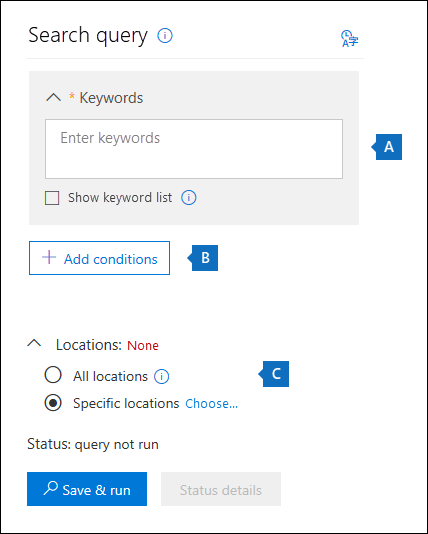
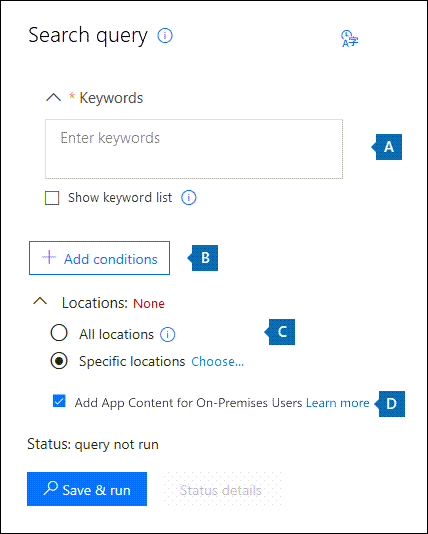
commit translated contents

diff --git a/microsoft-365/compliance/keyword-queries-and-search-conditions.md b/microsoft-365/compliance/keyword-queries-and-search-conditions.md
@@ -22,12 +22,12 @@ ms.assetid: c4639c2e-7223-4302-8e0d-b6e10f1c3be3
 ms.custom:
 - seo-marvel-apr2020
 description: Microsoft 365 の検索ツールとeDiscovery ツールを使用して検索できるメールとファイルのプロパティについて説明します。
-ms.openlocfilehash: e3282cd5b8bcc493e7c423db72c086f953d114ec
-ms.sourcegitcommit: 27b2b2e5c41934b918cac2c171556c45e36661bf
+ms.openlocfilehash: b3b2410c899ec98f39a4f89e5ea0a86537e5b666
+ms.sourcegitcommit: 7ebed5810480d7c49f8ca03207b5ea84993d253f
 ms.translationtype: MT
 ms.contentlocale: ja-JP
-ms.lasthandoff: 03/19/2021
-ms.locfileid: "50903585"
+ms.lasthandoff: 03/31/2021
+ms.locfileid: "51488302"
 ---
 # <a name="keyword-queries-and-search-conditions-for-content-search-and-ediscovery"></a>コンテンツ検索と eDiscovery のキーワード クエリと検索条件
 
@@ -105,7 +105,7 @@ ms.locfileid: "50903585"
 |FileName|ファイルの名前。|`filename:"marketing plan"`  <br/> `filename:estimate`|最初の例では、タイトルに "marketing plan" と完全一致する語句が含まれるファイルが返されます。2 番目の例では、ファイル名に "estimate" という単語を含むファイルが返されます。|
 |LastModifiedTime|アイテムが最後に変更された日付。|`lastmodifiedtime>=05/01/2016`  <br/> `lastmodifiedtime>=05/10/2016 AND lastmodifiedtime<=06/1/2016`|最初の例では、2016 年 5 月 1 日以降に変更されたアイテムが返されます。 2 番目の例では、2016 年 5 月 1 日～ 2016 年 6 月 1 日に変更されたアイテムが返されます。|
 |ModifiedBy|アイテムを最後に変更した人。 このプロパティには、必ずユーザーの表示名を使用してください。|`modifiedby:"Garth Fort"`|Garth Fort によって最後に変更されたすべてのアイテム。|
-|Path|SharePoint または OneDrive for Business サイトの特定のサイトのパス (URL)。  <br/> Path プロパティに対して指定したサイトのフォルダーに存在するアイテムを取得するには、指定するフォルダーの URL に /\* を追加する必要があります。例: `path: "https://contoso.sharepoint.com/Shared Documents/*"`  <br/> <br/> **注**: `Path` プロパティを使用して OneDrive の場所を検索すると、メディア ファイル (.png、.tiff、.wav ファイルなど) は検索結果に返されません。 OneDrive フォルダー内のメディア ファイルを検索するには、検索クエリで別のサイト プロパティを使用します。 <br/>|`path:"https://contoso-my.sharepoint.com/personal/garthf_contoso_com/"`  <br/> `path:"https://contoso-my.sharepoint.com/personal/garthf_contoso_com/*" AND filename:confidential`|最初の例では、指定した OneDrive for Business サイト内のすべてのアイテムが返されます。 2 番目の例では、指定したサイト フォルダー (およびサイト内のフォルダー) に存在するドキュメントで、ファイル名に "confidential" という単語が含まれるものが返されます。|
+|Path|SharePoint または OneDrive for Business サイトの特定のサイトのパス (URL)。<br/><br/>指定したサイトからのみアイテムを返す場合は、URL の末尾に末尾を追加する `/` 必要があります。たとえば、 `path: "https://contoso.sharepoint.com/sites/international/"` <br/><br/> path プロパティで指定したサイト内のフォルダーにあるアイテムを返す場合は、URL の末尾に追加する `/*` 必要があります。たとえば、  `path: "https://contoso.sharepoint.com/Shared Documents/*"`  <br/><br/> **注**: `Path` プロパティを使用して OneDrive の場所を検索すると、メディア ファイル (.png、.tiff、.wav ファイルなど) は検索結果に返されません。 OneDrive フォルダー内のメディア ファイルを検索するには、検索クエリで別のサイト プロパティを使用します。 <br/>|`path:"https://contoso-my.sharepoint.com/personal/garthf_contoso_com/"`  <br/> `path:"https://contoso-my.sharepoint.com/personal/garthf_contoso_com/*" AND filename:confidential`|最初の例では、指定した OneDrive for Business サイト内のすべてのアイテムが返されます。 2 番目の例では、指定したサイト フォルダー (およびサイト内のフォルダー) に存在するドキュメントで、ファイル名に "confidential" という単語が含まれるものが返されます。|
 |SharedWithUsersOWSUser|指定したユーザーと共有されているドキュメントで、そのユーザーの OneDrive for Business サイトの [**自分と共有**] ページに表示されるドキュメント。 これらは、組織内の他のユーザーによって指定したユーザーと明示的に共有されているドキュメントです。 SharedWithUsersOWSUser プロパティを使う検索クエリと一致するドキュメントをエクスポートすると、ドキュメントは、指定したユーザーとドキュメントを共有しているユーザーの元のコンテンツの場所からエクスポートされます。 詳細については、「[組織内で共有されているサイト コンテンツの検索](#searching-for-site-content-shared-within-your-organization)」を参照してください。|`sharedwithusersowsuser:garthf`  <br/> `sharedwithusersowsuser:"garthf@contoso.com"`|どちらの例でも、Garth Fort と明示的に共有されていて、Garth Fort の OneDrive for Business アカウントの [**自分と共有**] ページに表示されるすべての内部ドキュメントが返されます。|
 |Site|組織内のサイトかサイトのグループの URL。|`site:"https://contoso-my.sharepoint.com"`  <br/> `site:"https://contoso.sharepoint.com/sites/teams"`|最初の例では、組織内のすべてのユーザー向けの OneDrive for Business のサイトからアイテムが返されます。 2 番目の例では、すべてのチーム サイトからアイテムが返されます。|
 |Size|アイテムのサイズ (バイト数)。|`size>=1`  <br/> `size:1..10000`|最初の例では、1 バイトより大きいアイテムが返されます。2 番目の例では、1 ～ 10,000 バイトのサイズのメッセージが返されます。|
@@ -457,3 +457,5 @@ kind:im AND subject:conversation AND (received=startdate..enddate)
 - 特定のプロパティ値でマークされているコンテンツを検索結果から除外するには、プロパティの名前の前にマイナス記号 (-) を置きます。 たとえば、 `-from:"Sara Davis"` は、Sara Davis によって送信されたすべてのメッセージを除外します。
 
 - メッセージの種類に基づいてアイテムをエクスポートできます。 たとえば、Skype の会話と Microsoft Teams のチャットをエクスポートするには、構文 `kind:im` を使用します。 メール メッセージだけを返すには、`kind:email` を使用します。 Microsoft Teams のチャット、会議、通話を返すには、`kind:microsoftteams` を使用します。
+
+- 前に説明したように、サイトを検索する場合、プロパティを使用して指定したサイト内のアイテムのみを返す場合は、URL の末尾に末尾を `/` `path` 追加する必要があります。 末尾を含めなかった場合は、同様のパス名を持つサイトのアイテム `/` も返されます。 たとえば、名前の付いたサイトのアイテムを使用する場合や `path:sites/HelloWorld` `sites/HelloWorld_East` 、返 `sites/HelloWorld_West` される場合などです。 HelloWorld サイトからのみアイテムを返す場合は、 を使用する必要があります `path:sites/HelloWorld/` 。

diff --git a/microsoft-365/compliance/create-ediscovery-holds.md b/microsoft-365/compliance/create-ediscovery-holds.md
@@ -17,12 +17,12 @@ search.appverid:
 - MOE150
 - MET150
 description: Core 電子情報開示ケースに関連付けられた保留リストを作成して、調査に関連する可能性のあるコンテンツを保持できます。
-ms.openlocfilehash: c84d0be5a4a659ff9b64af14052bcf4033e2ed24
-ms.sourcegitcommit: d4604e333507c6f57d5bf327531a241b649052de
+ms.openlocfilehash: 1026de3b5357c3417a00a69b4ae6890e8036c091
+ms.sourcegitcommit: 7ebed5810480d7c49f8ca03207b5ea84993d253f
 ms.translationtype: MT
 ms.contentlocale: ja-JP
 ms.lasthandoff: 03/31/2021
-ms.locfileid: "51470478"
+ms.locfileid: "51488246"
 ---
 # <a name="create-an-ediscovery-hold"></a>電子情報開示保留リストを作成する
 
@@ -131,8 +131,8 @@ Microsoft Teams チャネルの一部である会話は、Microsoft チームに
 
 または、Teams のチャット リストの一部である会話 *(1:1* チャットまたは *1:N* グループ チャットと呼ばれる) は、チャットに参加するユーザーのメールボックスに格納されます。 また、ユーザーがチャット会話で共有するファイルは、ファイルを共有するユーザーの OneDrive アカウントに保存されます。 したがって、チャット リスト内の会話とファイルを保持するには、個々のユーザー メールボックスと OneDrive アカウントを電子情報開示ホールドに追加する必要があります。 チーム メールボックスとサイトを保留にしただけでなく、Microsoft チームのメンバーのメールボックスを保留に設定すると良い考えです。
 
-> [!IMPORTANT]
-> クラウドベースの組織では、Teams のチャット リストの一部である会話に参加するユーザーは、メールボックスが電子情報開示ホールドに置かれたときにチャットの会話を保持するために Exchange Online メールボックスを持っている必要があります。 これは、チャット リストの一部である会話が、チャット参加者のクラウドベースのメールボックスに格納されるためです。 チャット参加者に Exchange Online メールボックスが存在しない場合は、それらのチャットの会話を保持できません。 たとえば、Exchange ハイブリッド展開では、オンプレミスメールボックスを持つユーザーが Teams のチャット リストの一部である会話に参加できる場合があります。 ただし、この場合、これらのユーザーには保留にできるクラウドベースのメールボックスが存在しないので、これらの会話のコンテンツを保持できません。
+> [!NOTE]
+> 組織に Exchange ハイブリッド展開がある場合 (または組織がオンプレミスの Exchange 組織を Office 365 と同期)、Microsoft Teams を有効にしている場合、オンプレミスユーザーは Teams チャット アプリケーションを使用して、1:1 チャットと 1:N グループ チャットに参加できます。 これらの会話は、オンプレミスユーザーに関連付けられたクラウドベースのストレージに格納されます。 オンプレミスのユーザーが電子情報開示ホールドに置かれた場合、クラウドベースのストレージ内の Teams チャット コンテンツは保持されます。 詳細については、「[PowerShell を使用してオンプレミス ユーザーの Teams チャット データを検索する](search-cloud-based-mailboxes-for-on-premises-users.md)」を参照してください。
 
 Teams コンテンツの保持の詳細については、「Microsoft Teams ユーザーまたはチームを法的保留に設定する」 [を参照してください](/MicrosoftTeams/legal-hold)。
 

diff --git a/microsoft-365/compliance/check-your-content-search-query-for-errors.md b/microsoft-365/compliance/check-your-content-search-query-for-errors.md
@@ -5,7 +5,7 @@ f1.keywords:
 ms.author: markjjo
 author: markjjo
 manager: laurawi
-ms.date: 11/30/2016
+ms.date: ''
 audience: Admin
 ms.topic: article
 ms.service: O365-seccomp
@@ -16,12 +16,12 @@ search.appverid:
 ms.assetid: 88898874-e262-4c5c-b6d2-4e697497fc74
 ms.custom: seo-marvel-apr2020
 description: 検索を実行する前に、コンテンツ検索のキーワード クエリでエラーと入力ミスを検出する方法について説明します。
-ms.openlocfilehash: 296f30f5332165017f5c7ccebc35c0663041718d
-ms.sourcegitcommit: d4604e333507c6f57d5bf327531a241b649052de
+ms.openlocfilehash: 939ac3d227f176a0b74138107ced5dd5b7142bcd
+ms.sourcegitcommit: 7ebed5810480d7c49f8ca03207b5ea84993d253f
 ms.translationtype: MT
 ms.contentlocale: ja-JP
 ms.lasthandoff: 03/31/2021
-ms.locfileid: "51470451"
+ms.locfileid: "51488214"
 ---
 # <a name="check-your-content-search-query-for-errors"></a>コンテンツ検索クエリでエラーを確認する
   
